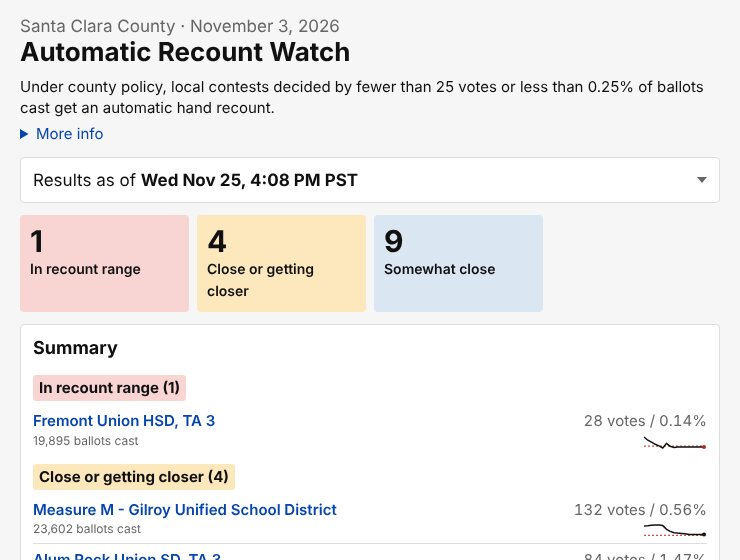
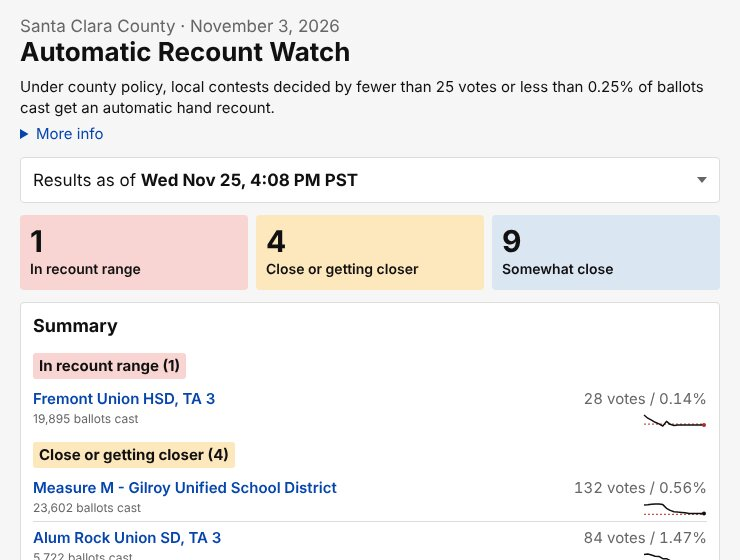
Mock-up round 3: intro in a soft box, Blog header with archive link, Oscars Watch live, stickers first
Claude-Session: https://claude.ai/code/session_01PDB7UvJZHb8QkjJBPy9mz8

diff --git a/_sass/_RAVI.scss b/_sass/_RAVI.scss
@@ -501,70 +501,56 @@ tbody tr:hover, tbody tr:hover td {
 
 
 // Homepage intro + projects row
-//
-// The intro sits in a full-width navy band that continues the masthead.
-// The project cards straddle the band's bottom edge.
 
-.home-hero {
-    margin-left: calc(50% - 50vw);
-    margin-right: calc(50% - 50vw);
-    padding: 1.75rem calc(50vw - 50%) 4rem;
-    background: linear-gradient(#353A4A, #2c3040);
-    color: #c9cede;
-}
-.home-hero-inner {
-    padding: 0 0.25rem;
+.home-intro {
+    margin: 1.25rem -0.5rem 1.25rem;
+    padding: 0.9rem 1.5rem 1rem;
+    background: rgba(244, 246, 250, 0.92);
+    border: 1px solid #e6e9ef;
+    border-radius: 6px;
 }
 .home-intro-title {
-    margin: 0 0 0.3rem;
-    font-size: 2.4rem;
+    margin: 0 0 0.25rem;
+    font-size: 2.25rem;
     line-height: 1.1;
-    color: white;
+    color: #313131;
     letter-spacing: -0.01em;
 }
 .home-intro-lede {
     margin: 0;
     font-size: 1rem;
-    color: #c9cede;
-    a { color: lightskyblue; white-space: nowrap; }
+    color: #5f6470;
+    a { white-space: nowrap; }
 }
 
-.home-projects-header,
-.home-posts-heading {
+.home-section-header {
     display: flex;
     align-items: baseline;
     justify-content: space-between;
-}
-.home-projects-header {
-    margin: 1.5rem 0 0;
+    margin: 0 0.25rem 0.5rem;
+
     h2 {
         margin: 0;
         font-size: 0.8rem;
         font-weight: 600;
         text-transform: uppercase;
         letter-spacing: 0.08em;
-        color: lightskyblue;
+        color: #9a9a9a;
     }
-    a { font-size: 0.8rem; color: #c9cede; }
-    a:hover { color: white; }
+    a { font-size: 0.8rem; }
 }
-.home-posts-heading {
-    margin: 1.5rem 0.25rem -0.5rem;
-    font-size: 0.8rem;
-    font-weight: 600;
-    text-transform: uppercase;
-    letter-spacing: 0.08em;
-    color: #9a9a9a;
+.home-blog-header {
+    margin-top: 1.5rem;
+    margin-bottom: -0.75rem;
 }
 
 .project-cards {
-    position: relative;
     list-style: none;
-    margin: -3rem -0.5rem 0;
+    margin: 0 -0.5rem;
     padding: 0;
     display: grid;
     grid-template-columns: repeat(4, minmax(0, 1fr));
-    gap: 0.75rem;
+    gap: 0.6rem;
 
     @media (max-width: 40em) {
         grid-template-columns: repeat(2, minmax(0, 1fr));
@@ -574,21 +560,15 @@ tbody tr:hover, tbody tr:hover td {
     display: flex;
     flex-direction: column;
     margin: 0;
-    padding: 0.9rem 0.85rem 0.8rem;
+    padding: 0.85rem 0.8rem 0.75rem;
     background: white;
     border-radius: 6px;
-    box-shadow: 0 1px 2px rgba(20, 24, 40, 0.08), 0 6px 18px rgba(20, 24, 40, 0.12);
-    transition: box-shadow 0.3s, transform 0.3s;
+    box-shadow: 0 1px 2px rgba(20, 24, 40, 0.06), 0 4px 12px rgba(20, 24, 40, 0.08);
+    transition: box-shadow 0.3s;
     font-size: 0.8rem;
     line-height: 1.35;
 
-    &:hover {
-        transform: translateY(-2px);
-        box-shadow: 0 2px 4px rgba(20, 24, 40, 0.1), 0 10px 26px rgba(20, 24, 40, 0.18);
-    }
-}
-@media (prefers-reduced-motion: reduce) {
-    .project-card, .project-card:hover { transition: none; transform: none; }
+    &:hover { box-shadow: 0 1px 3px rgba(20, 24, 40, 0.1), 0 8px 22px rgba(20, 24, 40, 0.16); }
 }
 .project-card-link {
     display: flex;
@@ -606,39 +586,26 @@ tbody tr:hover, tbody tr:hover td {
 .project-card-name {
     font-weight: 700;
     font-size: 0.9rem;
+    line-height: 1.2;
     color: #313131;
-    margin-bottom: 0.15rem;
+    margin-bottom: 0.2rem;
 }
 .project-card-blurb {
     color: #767676;
 }
-.project-card .project-badge-inline { display: none; }
 .project-card-actions {
     margin-top: 0.6rem;
     font-size: 0.75rem;
     color: #bbb;
 }
-.project-badge {
-    display: inline-block;
-    padding: 0 0.45rem;
-    border-radius: 1rem;
-    background: #f3f0e4;
-    color: #7a6420;
-    font-size: 0.7rem;
-    font-weight: 600;
-    text-transform: uppercase;
-    letter-spacing: 0.04em;
-}
 
 // Phones: stack the projects as compact rows so the blog starts on screen
 @media (max-width: 30em) {
-    .home-hero { padding-top: 1.5rem; padding-bottom: 3rem; }
-    .home-intro-title { font-size: 1.85rem; }
-    .home-intro-lede { font-size: 0.9rem; line-height: 1.45; }
-    .home-projects-header { margin-top: 1.25rem; }
-    .project-cards { grid-template-columns: 1fr; gap: 0.4rem; margin-top: -2.25rem; }
+    .home-intro { margin: 1.25rem -0.5rem 1.1rem; padding: 0.9rem 1rem 1rem; }
+    .home-intro-title { font-size: 1.75rem; }
+    .home-intro-lede { font-size: 0.9rem; line-height: 1.4; }
+    .project-cards { grid-template-columns: 1fr; gap: 0.4rem; }
     .project-card { flex-direction: row; align-items: center; padding: 0.55rem 0.75rem; }
-    .project-card:hover { transform: none; }
     .project-card-link {
         display: grid;
         grid-template-columns: 34px 1fr;
@@ -646,11 +613,10 @@ tbody tr:hover, tbody tr:hover td {
         align-items: center;
     }
     .project-card-logo { width: 34px; height: 34px; margin: 0; border-radius: 7px; grid-row: 1 / span 2; }
-    .project-card-name { margin: 0; font-size: 0.85rem; line-height: 1.2; }
+    .project-card-name { margin: 0; font-size: 0.85rem; }
     .project-card-blurb { font-size: 0.75rem; line-height: 1.3; }
     .project-card-actions { display: none; }
-    .project-card .project-badge-inline { display: inline-block; margin-left: 0.25rem; font-size: 0.6rem; vertical-align: 1px; }
-    .home-posts-heading { margin-top: 1.5rem; }
+    .home-blog-header { margin-top: 1.25rem; }
 }
 
 
@@ -711,4 +677,17 @@ tbody tr:hover, tbody tr:hover td {
 // Phones: leave room so the skewed name tab isn't clipped at the left edge
 @media (max-width: 500px) {
     .masthead-menu { padding-left: 0.6rem; }
+}
+
+// "Coming soon" tag, for a project listed before it launches
+.project-badge {
+    display: inline-block;
+    padding: 0 0.45rem;
+    border-radius: 1rem;
+    background: #f3f0e4;
+    color: #7a6420;
+    font-size: 0.7rem;
+    font-weight: 600;
+    text-transform: uppercase;
+    letter-spacing: 0.04em;
 }

diff --git a/_includes/home-intro.html b/_includes/home-intro.html
@@ -1,27 +1,28 @@
-<section class="home-hero">
-  <div class="home-hero-inner">
-    <h1 class="home-intro-title">Hi, I'm Ravi.</h1>
-    <p class="home-intro-lede">I'm an election administrator who loves technology and building things. <a href="{{ site.baseurl }}/about">More about me&nbsp;&rarr;</a></p>
-    <div class="home-projects-header">
-      <h2 id="home-projects-heading">Projects</h2>
-      <a href="{{ site.baseurl }}/projects">All projects&nbsp;&rarr;</a>
-    </div>
-  </div>
+<section class="home-intro">
+  <h1 class="home-intro-title">Hi, I'm Ravi.</h1>
+  <p class="home-intro-lede">I'm an election administrator who loves technology and building things. <a href="{{ site.baseurl }}/about">More about me&nbsp;&rarr;</a></p>
 </section>
 
-<ul class="project-cards" aria-labelledby="home-projects-heading">
-  {% for p in site.data.projects %}
-  <li class="project-card{% if p.coming_soon %} is-coming-soon{% endif %}">
-    <a class="project-card-link" href="{% if p.coming_soon %}{{ site.baseurl }}/projects#{{ p.id }}{% else %}{{ p.url }}{% endif %}">
-      <img class="project-card-logo" src="{{ site.baseurl }}{{ p.logo }}" alt="" width="44" height="44">
-      <span class="project-card-name">{{ p.name }}{% if p.coming_soon %} <span class="project-badge project-badge-inline">Soon</span>{% endif %}</span>
-      <span class="project-card-blurb">{{ p.blurb }}</span>
-    </a>
-    <span class="project-card-actions">
-      {% if p.coming_soon %}<span class="project-badge">Coming soon</span>{% else %}<a href="{{ p.url }}">Visit</a> &middot; <a href="{{ site.baseurl }}/projects#{{ p.id }}">About</a>{% endif %}
-    </span>
-  </li>
-  {% endfor %}
-</ul>
+<section class="home-projects" aria-labelledby="home-projects-heading">
+  <div class="home-section-header">
+    <h2 id="home-projects-heading">Projects</h2>
+    <a href="{{ site.baseurl }}/projects">All projects&nbsp;&rarr;</a>
+  </div>
+  <ul class="project-cards">
+    {% for p in site.data.projects %}
+    <li class="project-card">
+      <a class="project-card-link" href="{{ p.url }}">
+        <img class="project-card-logo" src="{{ site.baseurl }}{{ p.logo }}" alt="" width="44" height="44">
+        <span class="project-card-name">{{ p.name }}</span>
+        <span class="project-card-blurb">{{ p.blurb }}</span>
+      </a>
+      <span class="project-card-actions"><a href="{{ p.url }}">Visit</a> &middot; <a href="{{ site.baseurl }}/projects#{{ p.id }}">About</a></span>
+    </li>
+    {% endfor %}
+  </ul>
+</section>
 
-<h2 class="home-posts-heading">From the blog</h2>
+<div class="home-section-header home-blog-header">
+  <h2>Blog</h2>
+  <a href="{{ site.baseurl }}/archives">All blog posts&nbsp;&rarr;</a>
+</div>

diff --git a/projects.md b/projects.md
@@ -31,7 +31,8 @@ When I'm not blogging, I'm usually building something. Most of these projects gr
   <p>The I Voted Sticker Database collects "I Voted" sticker designs from across the country: about 2,600 so far, from all 50 states and DC. You can browse them by theme, state, or design contest, find designs on a map, and even turn your favorites into a phone or desktop wallpaper.</p>
   <p>Many of the best designs come from student contests, so the site also tells the stories behind the winners. Know of a sticker that's missing? You can submit it.</p>
   {% when 'oscars' %}
-  <p>I've been tracking the Oscars on this blog for years with my <a href="{{ site.baseurl }}/archives">Oscars checklists</a>. The Oscar tracker turns that into an interactive site for following this year's race. More soon.</p>
+  <p>Every year I try to watch every movie nominated in every category at the Oscars, a challenge known as the Oscars Death Race. For years I tracked it here with my <a href="{{ site.baseurl }}/archives">Oscars checklists</a>. Oscars Watch turns those checklists into a live site.</p>
+  <p>It lists every film with a real shot at a nomination, using Gold Derby's combined odds, and shows where to watch each one in the US, whether in theaters or streaming. You can mark the films you've seen to track your own progress, and follow the odds as they move toward nominations in January.</p>
   {% endcase %}
 
   {% unless p.coming_soon %}<p><a class="project-entry-visit" href="{{ p.url }}">Visit {{ p.name }}&nbsp;&rarr;</a></p>{% endunless %}
